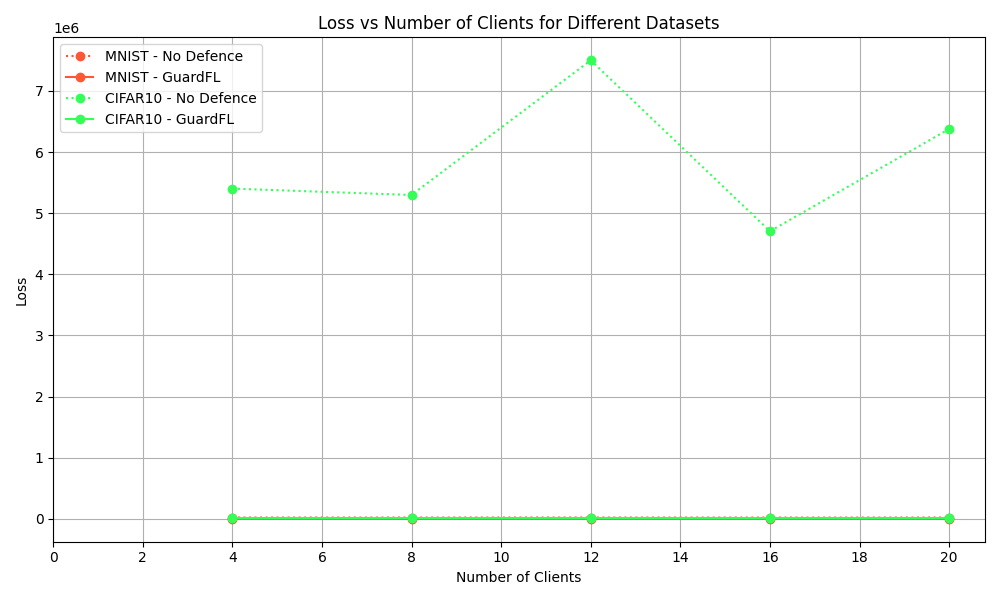
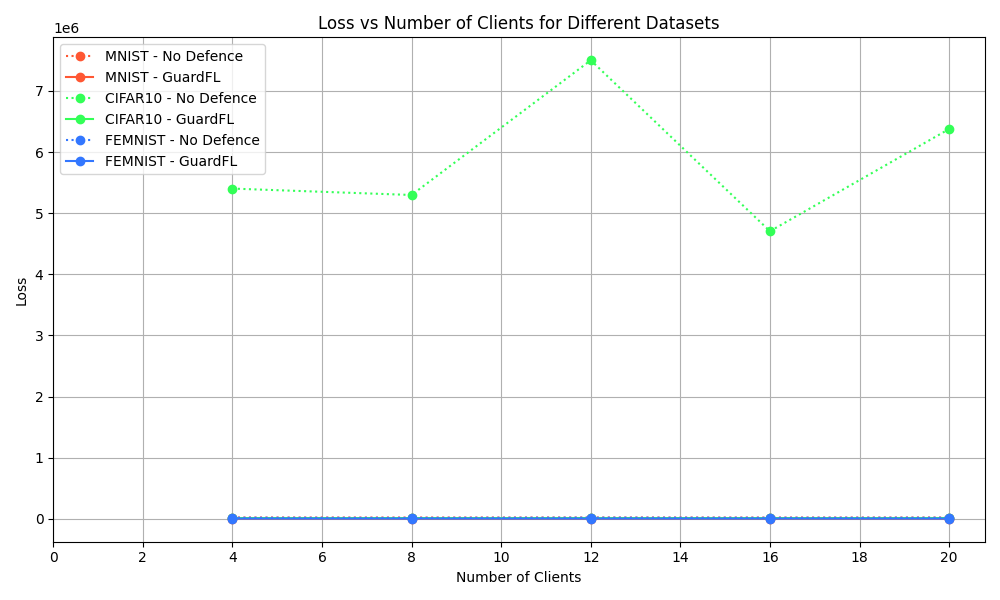
Update

Changed region(s): [[0.217, 0.84, 0.961, 0.87], [0.062, 0.21, 0.279, 0.3]]

diff --git a/plots/malicious client.py b/plots/malicious client.py
@@ -1,0 +1,72 @@
+import matplotlib.pyplot as plt
+
+# Data for CIFAR-10
+m_clients = [0, 2, 3, 5, 7]
+cifar10_no_defence_acc = [55.49, 44.63, 40.01, 37.51, 22.34]
+cifar10_guardfl_acc = [54.59, 52.11, 53.26, 53.88, 52.54]
+cifar10_no_defence_loss = [12483.83, 15554.12, 16079.47, 17545.64, 20059.63]
+cifar10_guardfl_loss = [12591.33, 13359.57, 13083.07, 12941.17, 13114.85]
+cifar10_no_defence_time = [661.72, 573.15, 577.51, 512.01, 482.52]
+cifar10_guardfl_time = [1053.86, 788.14, 749.63, 568.68, 542.68]
+
+# Data for MNIST
+mnist_no_defence_acc = [97.97, 95.95, 94.55, 91.46, 78.39]
+mnist_guardfl_acc = [97.92, 97.74, 97.75, 97.80, 97.65]
+mnist_no_defence_loss = [679.52, 1859.90, 2523.96, 6223.53, 12096.59]
+mnist_guardfl_loss = [681.86, 751.13, 726.45, 721.53, 770.84]
+mnist_no_defence_time = [843.88, 795.28, 835.99, 799.37, 823.9]
+mnist_guardfl_time = [1067.96, 1002.09, 757.71, 814.27, 747.57]
+
+# Data for FEMNIST
+femnist_no_defence_acc = [85.74, 81.43, 78.19, 72.47, 69.08]
+femnist_guardfl_acc = [85.61, 85.00, 85.03, 85.04, 85.19]
+femnist_no_defence_loss = [4022.01, 5567.63, 6570.20, 8372.58, 11325.76]
+femnist_guardfl_loss = [4053.84, 4223.59, 4253.22, 4232.12, 4139.91]
+femnist_no_defence_time = [836.69, 819.94, 833.4, 815.63, 762.24]
+femnist_guardfl_time = [1048.79, 1006.58, 1002.92, 763.57, 837.13]
+
+# Plotting
+plt.figure(figsize=(15, 18))
+
+# Accuracy vs Malicious Client
+plt.subplot(3, 1, 1)
+plt.plot(m_clients, cifar10_no_defence_acc, label='CIFAR-10 (No Defence)', marker='o')
+plt.plot(m_clients, cifar10_guardfl_acc, label='CIFAR-10 (GuardFL)', marker='o')
+plt.plot(m_clients, mnist_no_defence_acc, label='MNIST (No Defence)', marker='o')
+plt.plot(m_clients, mnist_guardfl_acc, label='MNIST (GuardFL)', marker='o')
+plt.plot(m_clients, femnist_no_defence_acc, label='FEMNIST (No Defence)', marker='o')
+plt.plot(m_clients, femnist_guardfl_acc, label='FEMNIST (GuardFL)', marker='o')
+plt.title('Accuracy vs Malicious Client')
+plt.xlabel('Number of Malicious Clients')
+plt.ylabel('Accuracy')
+plt.legend()
+
+# Loss vs Malicious Client
+plt.subplot(3, 1, 2)
+plt.plot(m_clients, cifar10_no_defence_loss, label='CIFAR-10 (No Defence)', marker='o')
+plt.plot(m_clients, cifar10_guardfl_loss, label='CIFAR-10 (GuardFL)', marker='o')
+plt.plot(m_clients, mnist_no_defence_loss, label='MNIST (No Defence)', marker='o')
+plt.plot(m_clients, mnist_guardfl_loss, label='MNIST (GuardFL)', marker='o')
+plt.plot(m_clients, femnist_no_defence_loss, label='FEMNIST (No Defence)', marker='o')
+plt.plot(m_clients, femnist_guardfl_loss, label='FEMNIST (GuardFL)', marker='o')
+plt.title('Loss vs Malicious Client')
+plt.xlabel('Number of Malicious Clients')
+plt.ylabel('Loss')
+plt.legend()
+
+# Time vs Malicious Client
+plt.subplot(3, 1, 3)
+plt.plot(m_clients, cifar10_no_defence_time, label='CIFAR-10 (No Defence)', marker='o')
+plt.plot(m_clients, cifar10_guardfl_time, label='CIFAR-10 (GuardFL)', marker='o')
+plt.plot(m_clients, mnist_no_defence_time, label='MNIST (No Defence)', marker='o')
+plt.plot(m_clients, mnist_guardfl_time, label='MNIST (GuardFL)', marker='o')
+plt.plot(m_clients, femnist_no_defence_time, label='FEMNIST (No Defence)', marker='o')
+plt.plot(m_clients, femnist_guardfl_time, label='FEMNIST (GuardFL)', marker='o')
+plt.title('Time vs Malicious Client')
+plt.xlabel('Number of Malicious Clients')
+plt.ylabel('Time (seconds)')
+plt.legend()
+
+plt.tight_layout()
+plt.show()
+plt.savefig('malicious_client.png')

diff --git a/plots/p2.py b/plots/p2.py
@@ -44,6 +44,10 @@ cifar_clients = [4, 8, 12, 16, 20]
 cifar_loss_no_defence = [5402261, 5297439, 7501376, 4704870, 6377244]
 cifar_loss_guardfl = [13169, 13024, 13288, 12676, 13461]
 
+femnist_clients = [4, 8, 12, 16, 20]
+femnist_loss_no_defence = [17115.91,14589.6,18252.17,16408.20,17068.91]
+femnist_loss_guardfl = [4209.86,4287.48,4181.36,4167.67 ,4307.84]
+
 # Plotting the loss for each dataset
 plt.figure(figsize=(10, 6))
 
@@ -52,6 +56,9 @@ plt.plot(mnist_clients, mnist_loss_guardfl, marker='o', linestyle='-', label='MN
 
 plt.plot(cifar_clients, cifar_loss_no_defence, marker='o', linestyle='dotted', label='CIFAR10 - No Defence', color = '#33FF57')
 plt.plot(cifar_clients, cifar_loss_guardfl, marker='o', linestyle='-', label='CIFAR10 - GuardFL', color = '#33FF57')
+
+plt.plot(femnist_clients, femnist_loss_no_defence, marker='o', linestyle='dotted', label='FEMNIST - No Defence', color = '#3377FF')
+plt.plot(femnist_clients, femnist_loss_guardfl, marker='o', linestyle='-', label='FEMNIST - GuardFL', color = '#3377FF')
 
 plt.xlabel('Number of Clients')
 plt.ylabel('Loss')

diff --git a/plots/p3.py b/plots/p3.py
@@ -11,6 +11,10 @@ cifar_clients = [4, 8, 12, 16, 20]
 cifar_time_no_defence = [200, 320, 373, 860, 2066]
 cifar_time_guardfl = [257, 850, 1145, 534, 1232]
 
+femnist_clients = [4, 8, 12, 16, 20]
+femnist_time_no_defence = [196,332,514,787,983]
+femnist_time_guardfl = [394,543,711, 831, 1078]
+
 # Plotting the time for each dataset
 plt.figure(figsize=(10, 6))
 
@@ -20,6 +24,8 @@ plt.plot(mnist_clients, mnist_time_guardfl, marker='o', linestyle='-', label='MN
 plt.plot(cifar_clients, cifar_time_no_defence, marker='o', linestyle='dotted', label='CIFAR10 - No Defence', color = '#33FF57')
 plt.plot(cifar_clients, cifar_time_guardfl, marker='o', linestyle='-', label='CIFAR10 - GuardFL' , color = '#33FF57')
 
+plt.plot(femnist_clients, femnist_time_no_defence, marker='o', linestyle='dotted', label='FEMNIST - No Defence', color = '#3377FF')
+plt.plot(femnist_clients, femnist_time_guardfl, marker='o', linestyle='-', label='FEMNIST - GuardFL', color = '#3377FF')
 plt.xlabel('Number of Clients')
 plt.ylabel('Time (sec)')
 plt.title('Time vs Number of Clients for Different Datasets')
